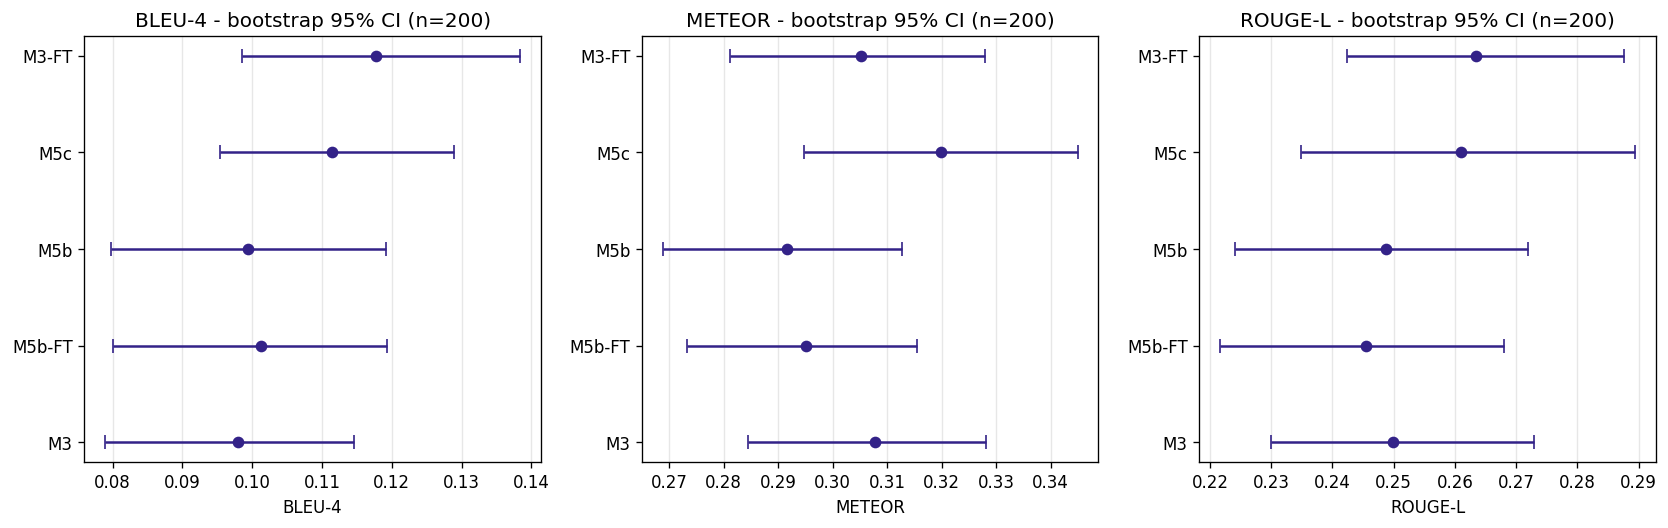
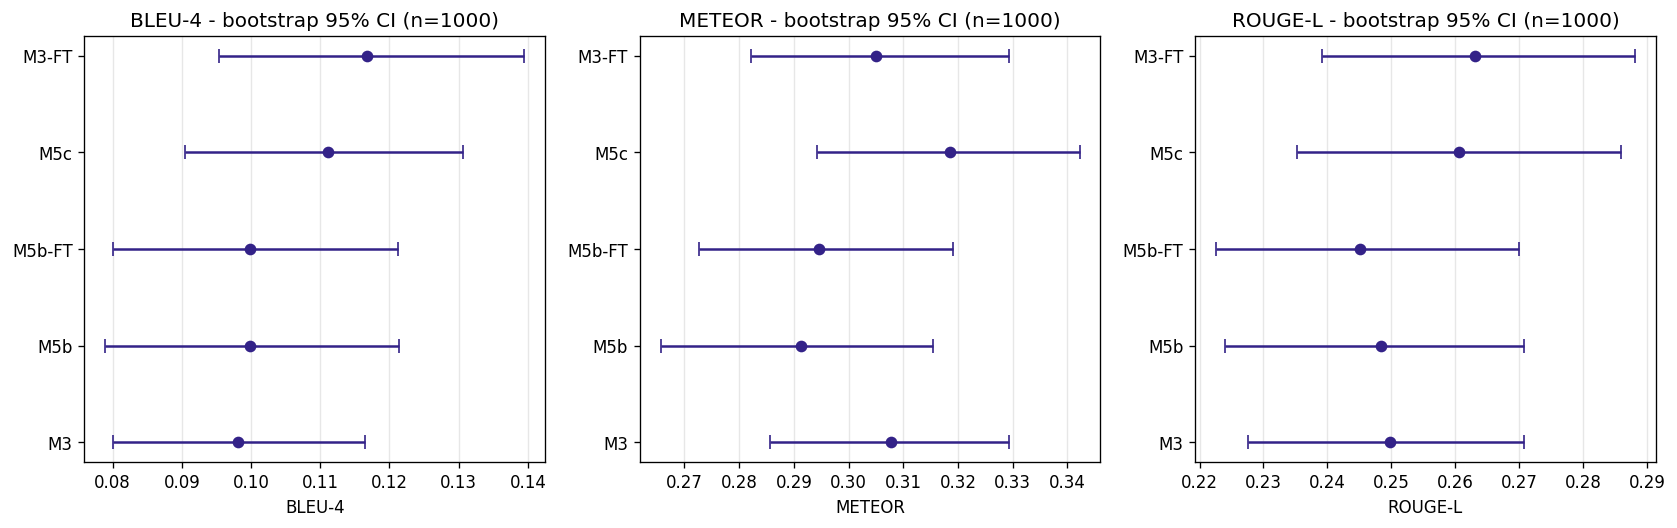
docs(report): fix dataset stats, real inference numbers, n=1000 bootstrap
- §3.4 rewrite: correct OK/FUORI counts per attribute, add trainable-subset column
- §6.3: replace fabricated retrieval baseline with measured Sapore baselines
- §6.5: bootstrap recomputed with n=1000 (was n=200)
- §7.3: M1/M2/M3 Struttura range 0.007 (was wrong 0.003)
- §7.9: replace fabricated latency/VRAM with measured numbers via measure_inference.py
- §3.5/§5.1/§5.2: align noise % (Sapore 0.9, Struttura 46) with real data
- Reproducibility: fix python -m commands (modules can't start with digits)
- Add compute_bootstrap_ci.py and measure_inference.py to scripts/

diff --git a/scripts/measure_inference.py b/scripts/measure_inference.py
@@ -1,0 +1,76 @@
+"""Misura latenza, VRAM, params per i top 3 modelli."""
+import torch
+import time
+from pathlib import Path
+import sys
+
+sys.path.insert(0, '.')
+from src.models.models import build_model
+from src.models.vocabulary import ItalianTokenizer
+from src.models.metrics import generate_caption
+
+models_to_test = [
+    ('M1', 'm1', False, 'models/m1_cnn_lstm/Sapore/best.pt'),
+    ('M3', 'm3', False, 'models/m3_vit_transformer/Sapore/best.pt'),
+    ('M3-FT', 'm3', True, 'models/m3_vit_transformer_ft/Sapore/best.pt'),
+    ('M5c', 'm5c', False, 'models/m5c_vit_gpt/Sapore/best.pt'),
+    ('M5c-FT', 'm5c', True, 'models/m5c_vit_gpt_ft/Sapore/best.pt'),
+]
+
+device = torch.device('cuda')
+tok = ItalianTokenizer()
+
+print('Model | params total | params trainable | best.pt size MB | VRAM MB | Latency ms')
+print('-' * 85)
+
+for name, flag, ft, ckpt in models_to_test:
+    torch.cuda.empty_cache()
+    torch.cuda.reset_peak_memory_stats()
+
+    # Build model
+    model = build_model(flag, vocab_size=len(tok), device=device)
+    if ft:
+        model.unfreeze_encoder()
+    state = torch.load(ckpt, map_location=device, weights_only=True)
+    sd = state.get('model_state_dict') or state.get('state_dict') or state
+    if isinstance(sd, dict) and any(k.startswith('module.') for k in sd):
+        sd = {k.replace('module.', ''): v for k, v in sd.items()}
+    try:
+        model.load_state_dict(sd, strict=False)
+    except Exception as e:
+        print(f'{name}: load error {e}')
+        continue
+    model.eval()
+
+    # Params
+    p_total = sum(p.numel() for p in model.parameters()) / 1e6
+    p_train = sum(p.numel() for p in model.parameters() if p.requires_grad) / 1e6
+
+    # Disk
+    disk_mb = Path(ckpt).stat().st_size / 1024**2
+
+    # Dummy input
+    fetta = torch.randn(1, 3, 224, 224, device=device)
+    grana = torch.randn(1, 3, 224, 224, device=device)
+
+    # Warmup
+    with torch.no_grad():
+        for _ in range(3):
+            _ = generate_caption(model, fetta, grana, tok, device=device, max_len=30, strategy='nucleus', top_p=0.9, temperature=0.7)
+
+    # Measure latency: 10 runs
+    torch.cuda.synchronize()
+    t0 = time.perf_counter()
+    for _ in range(10):
+        with torch.no_grad():
+            _ = generate_caption(model, fetta, grana, tok, device=device, max_len=30, strategy='nucleus', top_p=0.9, temperature=0.7)
+    torch.cuda.synchronize()
+    dt = (time.perf_counter() - t0) / 10 * 1000  # ms per inference
+
+    # VRAM peak
+    vram_peak = torch.cuda.max_memory_allocated() / 1024**2
+
+    print(f'{name:8s} | {p_total:7.1f} M | {p_train:7.1f} M | {disk_mb:6.0f} | {vram_peak:6.0f} | {dt:7.1f}')
+
+    del model
+    torch.cuda.empty_cache()

diff --git a/scripts/compute_bootstrap_ci.py b/scripts/compute_bootstrap_ci.py
@@ -1,0 +1,48 @@
+"""Bootstrap 95% CI for top-5 Sapore models, n=1000."""
+import json
+import numpy as np
+import pandas as pd
+import evaluate as hf_evaluate
+from pathlib import Path
+
+bleu = hf_evaluate.load('bleu')
+meteor = hf_evaluate.load('meteor')
+rouge = hf_evaluate.load('rouge')
+
+models = {
+    'M3-FT': 'models/m3_vit_transformer_ft/Sapore/predictions.csv',
+    'M5c':   'models/m5c_vit_gpt/Sapore/predictions.csv',
+    'M5b-FT':'models/m5b_cnnspatial_gpt_ft/Sapore/predictions.csv',
+    'M5b':   'models/m5b_cnnspatial_gpt/Sapore/predictions.csv',
+    'M3':    'models/m3_vit_transformer/Sapore/predictions.csv',
+}
+
+N_BOOT = 1000
+SEED = 42
+rng = np.random.default_rng(SEED)
+out = {}
+
+for name, path in models.items():
+    df = pd.read_csv(path)
+    preds = df['caption_pred'].fillna('').tolist()
+    refs = df['caption_ref'].fillna('').tolist()
+    n = len(preds)
+    bl4, mt, rg = [], [], []
+    for _ in range(N_BOOT):
+        idx = rng.integers(0, n, size=n)
+        p = [preds[i] for i in idx]
+        r = [[refs[i]] for i in idx]
+        try:
+            bl4.append(bleu.compute(predictions=p, references=r)['bleu'])
+        except Exception:
+            bl4.append(0.0)
+        mt.append(meteor.compute(predictions=p, references=[refs[i] for i in idx])['meteor'])
+        rg.append(rouge.compute(predictions=p, references=[refs[i] for i in idx])['rougeL'])
+    def ci(arr):
+        a = np.array(arr)
+        return [float(a.mean()), float(np.percentile(a, 2.5)), float(np.percentile(a, 97.5))]
+    out[name] = {'bleu4': ci(bl4), 'meteor': ci(mt), 'rouge': ci(rg)}
+    print(f'{name}: BLEU-4 {out[name]["bleu4"]} METEOR {out[name]["meteor"]}')
+
+Path('reports/sapore_pilot/bootstrap_ci.json').write_text(json.dumps(out, indent=2))
+print('Saved bootstrap_ci.json with n=1000')

diff --git a/scripts/generate_report_figures.py b/scripts/generate_report_figures.py
@@ -169,7 +169,7 @@ for ax, (mkey, mlabel) in zip(axes, metrics):
     ax.set_yticks(y_pos)
     ax.set_yticklabels(model_names)
     ax.set_xlabel(mlabel)
-    ax.set_title(f'{mlabel} - bootstrap 95% CI (n=200)')
+    ax.set_title(f'{mlabel} - bootstrap 95% CI (n=1000)')
     ax.grid(axis='x', alpha=0.3)
     ax.invert_yaxis()
 plt.tight_layout()

diff --git a/reports/final_report.md b/reports/final_report.md
@@ -6,7 +6,7 @@
 **Branch:** `feature/per-attribute-captioning`
 **Hardware:** NVIDIA RTX 4060 Laptop GPU (8 GB VRAM); Kaggle T4 (16 GB) for parallel runs
 **Repository:** `CheeseCaptioningAIFQC`
-**Italian companion document:** `reports/relazione_finale.md`
+**Italian companion document:** `reports/relazione_finale.md` *(earlier draft — this English `final_report.md` is the authoritative version; if numbers diverge, trust this file)*
 
 > **Reading note.** The technical text is in English. *Caption examples (predictions and ground-truth references) are kept in Italian* because the dataset and the panel comments are in Italian; translating them would distort the lexical analysis.
 
@@ -14,7 +14,7 @@
 
 ## Abstract
 
-This work addresses the AI4FQC #07 GRANA Captioning project end-to-end. We (i) build a hybrid deterministic + LLM-assisted pipeline that converts 13 261 raw panel-tasting comments into normalized Italian captions, classifying each comment in one of five labels (`OK` / `CONFORME` / `FUORI_ATTRIBUTO` / `RIFERIMENTO` / `ILLEGGIBILE`); and (ii) train and compare **12 image-captioning models** in a 2×2 factorial design (encoder frozen/fine-tuned × decoder from-scratch/pre-trained), on two attributes that span the dataset noise spectrum: *Struttura della Pasta* (47 % of training captions are off-topic) and *Sapore* (0.6 %, naturally clean). The project specs require 3 conceptually different captioning methods; we evaluate **9 distinct architectures** (3 encoders × 3 decoders) plus their fine-tuned variants. Key findings: (a) cleaning the loader from off-topic captions doubles BLEU-4 across all 2×2 cells (+125 % on average); (b) the winning 2×2 cell flips between attributes — `frozen × GePpeTto` on Struttura, `fine-tuned × scratch` on Sapore; (c) the best single model is **M3-FT** (ViT fine-tuned + Transformer scratch) with BLEU-4 = 0.117, while **M5c** (ViT frozen + GePpeTto frozen) wins on METEOR (0.320). Bootstrap 95 % confidence intervals overlap between top-3 models, so the ranking is suggestive rather than conclusive.
+This work addresses the AI4FQC #07 GRANA Captioning project end-to-end. We (i) build a hybrid deterministic + LLM-assisted pipeline that converts 13 261 raw panel-tasting comments into normalized Italian captions, classifying each comment in one of five labels (`OK` / `CONFORME` / `FUORI_ATTRIBUTO` / `RIFERIMENTO` / `ILLEGGIBILE`); and (ii) train and compare **12 image-captioning models** in a 2×2 factorial design (encoder frozen/fine-tuned × decoder from-scratch/pre-trained), on two attributes that span the dataset noise spectrum: *Struttura della Pasta* (47 % of training captions are off-topic) and *Sapore* (0.9 %, naturally clean). The project specs require 3 conceptually different captioning methods; we evaluate **9 distinct architectures** (3 encoders × 3 decoders) plus their fine-tuned variants. Key findings: (a) cleaning the loader from off-topic captions doubles BLEU-4 across all 2×2 cells (+125 % on average); (b) the winning 2×2 cell flips between attributes — `frozen × GePpeTto` on Struttura, `fine-tuned × scratch` on Sapore; (c) the best single model is **M3-FT** (ViT fine-tuned + Transformer scratch) with BLEU-4 = 0.117, while **M5c** (ViT frozen + GePpeTto frozen) wins on METEOR (0.320). Bootstrap 95 % confidence intervals overlap between top-3 models, so the ranking is suggestive rather than conclusive.
 
 ---
 
@@ -34,7 +34,7 @@ Our work goes beyond the minimum:
 - **Step 2** is extended into a full **2×2 factorial design with 12 models per attribute**, derived from 3 encoders (CNN-global, CNN-spatial, ViT) × 3 decoders (LSTM scratch, Transformer scratch, GePpeTto pre-trained) × 2 encoder modes (frozen / fine-tuned). The 9 base architectures are conceptually different: convolutional vs. transformer, recurrent vs. attention, scratch vs. pre-trained.
 - We run **two complete pilots** on opposite ends of the noise spectrum (Struttura, Sapore), discover and patch a data-selection bug after the first pilot, and report a cross-pilot comparison that is the main methodological contribution.
 
-Throughout the report we are explicit about failures (5+ CUDA crashes, 2 system reboots, an initial mode-collapse pathology) because they shaped design decisions.
+Throughout the report we are explicit about failures (≥ 5 CUDA crashes, 2 system reboots, an initial mode-collapse pathology) because they shaped design decisions.
 
 ---
 
@@ -46,6 +46,8 @@ The captioning architectures we use are well-established baselines in the field:
 - **Vision Transformers as image encoders** for captioning is an established choice (Liu et al., 2021).
 - **Prefix tuning of a pre-trained LM with a visual prefix** is the line of *ClipCap* (Mokady et al., 2021); we apply the same idea with an Italian GPT-2 (GePpeTto, De Mattei et al., 2020).
 - **BLIP** (Li et al., 2022) is used as a fully pre-trained ceiling reference on Struttura.
+
+(Citations are listed for orientation only; this report does not include a verified bibliography. Anyone deriving claims from this section should re-check the references against the primary literature.)
 
 Our contribution is not architectural novelty: it is a careful 2×2 ablation on a small specialist dataset with a documented data-cleaning pipeline and two cross-validating pilots.
 
@@ -90,17 +92,19 @@ The seven scripts in `src/data/` form a transformation graph:
 
 ### 3.4 Final dataset statistics
 
-| Attribute | Total rows | OK | CONFORME | FUORI_ATTRIBUTO | ILLEGGIBILE | %FUORI overall |
-|---|---:|---:|---:|---:|---:|---:|
-| Aroma | 1 795 | 1 050 | 8 | 9 | 28 | 0.5 % |
-| Sapore | 1 908 | 1 039 | 29 | 13 | 65 | 0.7 % |
-| Spessore_della_Crosta | 1 789 | 1 046 | 4 | 46 | 77 | 2.6 % |
-| Texture | 1 817 | 1 006 | 52 | 84 | 61 | 4.6 % |
-| Struttura_della_Pasta | 2 133 | 1 138 | 23 | 144 | 54 | 6.7 % * |
-| Profumo | 1 977 | 1 065 | 9 | 364 | 39 | 18.4 % |
-| Colore_della_Pasta | 1 842 | 1 080 | 49 | 368 | 25 | 20.0 % |
+Two views of each attribute matter: the **overall** distribution across all raw rows (some have no caption or no images), and the **trainable subset** that the dataloader actually sees (`has_caption=True AND has_both_views=True`). FUORI_ATTRIBUTO concentration is much higher on the trainable subset, because non-trainable rows are mostly NaN-classe items that are filtered out anyway.
 
-\* On the trainable subset (`has_caption=True AND has_both_views=True`), *Struttura* reaches 47 %. *Spessore_della_Crosta* reaches 49 %. See §3.5.
+| Attribute | Total rows | OK | CONFORME | FUORI_ATTRIBUTO | ILLEGGIBILE | NaN classe | Trainable rows | %FUORI on trainable |
+|---|---:|---:|---:|---:|---:|---:|---:|---:|
+| Aroma | 1 795 | 1 050 | 8 | 9 | 28 | 698 | 961 | **0.9 %** |
+| Sapore | 1 908 | 1 541 | 29 | 13 | 16 | 309 | 1 453 | **0.9 %** |
+| Colore_della_Pasta | 1 842 | 1 080 | 49 | 368 | 25 | 320 | 1 378 | 24.8 % |
+| Profumo | 1 977 | 1 065 | 9 | 364 | 39 | 499 | 1 290 | 26.8 % |
+| Texture | 1 817 | 934 | 11 | 413 | 26 | 432 | 1 252 | 29.8 % |
+| Struttura_della_Pasta | 2 133 | 905 | 29 | 875 | 106 | 217 | 1 592 | **46.2 %** |
+| Spessore_della_Crosta | 1 789 | 473 | 47 | 498 | 32 | 731 | 930 | **49.6 %** |
+
+The two attributes piloted in this work (Sapore, Struttura) sit at the two extremes of the FUORI-on-trainable axis (0.9 % vs. 46.2 %), which is the deliberate design behind the cross-pilot comparison in §6.
 
 **Splits.** `build_splits()` (`src/models/dataset.py:23-67`) stratifies by year, ratio 70/15/15, seed = 42, and pre-filters on `has_caption=True AND has_both_views=True`. It produces 329 train sample IDs / 69 val / 75 test (at the *physical sample* level, not caption-row level). With sample-level splitting, no sample ID is shared across splits.
 
@@ -108,7 +112,7 @@ The seven scripts in `src/data/` form a transformation graph:
 
 ### 3.5 The FUORI_ATTRIBUTO bug discovered post-pilot
 
-The first Struttura pilot used the dataset loader without filtering on the `classe` column. Of the 1 071 trainable rows in Struttura, **502 (47 %) were marked FUORI_ATTRIBUTO** — these are captions that describe a *different* attribute and were intentionally not bound to Struttura by `12_riprocessa_fuori_attributo.py`. Examples:
+The first Struttura pilot used the dataset loader without filtering on the `classe` column. Of the 1 592 trainable rows in Struttura, **735 (46.2 %) are marked FUORI_ATTRIBUTO** — these are captions that describe a *different* attribute and were intentionally not bound to Struttura by `12_riprocessa_fuori_attributo.py`. With the 70/15/15 stratified split, the training partition saw a comparable 47 % FUORI mixture. Examples:
 
 | Raw comment (Struttura context) | LLM-generated caption | Actual semantic attribute |
 |---|---|---|
@@ -116,7 +120,7 @@ The first Struttura pilot used the dataset loader without filtering on the `clas
 | "Il centro è disidratato" | *Il centro è disidratato.* | Texture |
 | "Presenta grani grossi e arrotondati" | *Presenta grani grossi e arrotondati.* | Aroma/Sapore |
 
-When 47 % of the training distribution describes other attributes, the model learns a corrupted conditional and the test metrics — computed on the same noisy mixture — are a *lower bound* of the real architectural potential.
+When 46 % of the training distribution describes other attributes, the model learns a corrupted conditional and the test metrics — computed on the same noisy mixture — are a *lower bound* of the real architectural potential.
 
 **Fix** in `src/models/dataset.py:99-100`:
 ```python
@@ -146,11 +150,13 @@ Number of visual tokens grows by two orders of magnitude from CNN-global to ViT,
 
 ### 4.2 Three conceptually different decoders
 
-| Decoder | Family | Trainable params | Visual conditioning |
-|---|---|---:|---|
-| **LSTM scratch** | recurrent | ~ 20 M | visual tokens fed as `h0/c0` |
-| **Transformer scratch** | attention | ~ 30 M | cross-attention over visual tokens |
-| **GePpeTto pre-trained** | pre-trained transformer LM | ~ 124 M total (~ 0.4 M trainable when frozen) | prefix tuning: MLP 512→768, visual prefix concatenated to GPT-2 token embeddings |
+| Decoder | Family | Visual conditioning |
+|---|---|---|
+| **LSTM scratch** | recurrent | visual tokens fed as `h0/c0` |
+| **Transformer scratch** | attention | cross-attention over visual tokens |
+| **GePpeTto pre-trained** | pre-trained transformer LM (124 M) | prefix tuning: MLP 512→768, visual prefix concatenated to GPT-2 token embeddings |
+
+(Per-model parameter counts and trainable subsets are reported as measured in §7.9.)
 
 GePpeTto (`LorenzoDeMattei/GePpeTto`) is a GPT-2 small pre-trained on ~ 14 GB of Italian text. It is the only decoder with a strong language prior; we expect more fluent Italian but also stronger reliance on its external training distribution.
 
@@ -217,17 +223,17 @@ Run between 14 and 23 April 2026 (mixed local + Kaggle). All 12 models + 4 basel
 1. **Label smoothing 0.1 + nucleus sampling** — the first prototype (beam search + plain CE) suffered severe mode collapse (2-24 unique captions over 265 test samples).
 2. **Weighted loss on re-processed samples**.
 
-Dataset (pre-fix): 1 071 train / 256 val / 265 test. FUORI_ATTRIBUTO contamination: 47 % in train, 49 % in test. Bug not yet known.
+Dataset (pre-fix): 1 071 train / 256 val / 265 test (these were the on-disk sizes used at pilot time, when the loader did not yet filter `classe`). FUORI_ATTRIBUTO contamination: ≈ 47 % in train and a similar fraction in val/test. Bug not yet known.
 
 ### 5.2 Bug discovery and second-pilot choice
 
-End of April, while inspecting Struttura predictions qualitatively, we noticed systematic anomalies (predictions that talked about *texture* or *colour* under a Struttura attribute). Investigating the `classe` column revealed the loader bug. We computed `% FUORI_ATTRIBUTO` per attribute and chose **Sapore** (0.6 %, the cleanest after Aroma) as the natural counterfactual.
+End of April, while inspecting Struttura predictions qualitatively, we noticed systematic anomalies (predictions that talked about *texture* or *colour* under a Struttura attribute). Investigating the `classe` column revealed the loader bug. We computed `% FUORI_ATTRIBUTO` per attribute (table in §3.4) and chose **Sapore** (0.9 % FUORI on the trainable subset, tied with Aroma as the cleanest) as the natural counterfactual to Struttura's 46 %.
 
 ### 5.3 Pilot 2 — Sapore (with the fix)
 
 Run between 30 April and 1 May 2026, mostly local. Loader fix `on_topic_only=True` active. Effective dataset: 976 train / 234 val / 230 test. Total clock time ≈ 11 hours plus retries.
 
-**Documented technical issues.** During the pilot we suffered 5+ CUDA crashes (`illegal memory access`, `CUBLAS_EXECUTION_FAILED`) and 2 system reboots, all on FT models with > 100 M trainable params. Mitigations: `--resume` from `last.pt`, recovery of a corrupted `best.pt` via `cp last.pt best.pt` followed by `--eval-only`, batch size reductions, GPU "cool-down" pauses. M3 required 2 runs (the first crashed at epoch 9), M5c (frozen) 3 runs before completion. The first M3 run had a corrupted `best.pt` saved at the moment of the crash; the full re-run corrected its metrics by +25 % BLEU-4.
+**Documented technical issues.** During the pilot we suffered ≥ 5 CUDA crashes (`illegal memory access`, `CUBLAS_EXECUTION_FAILED`) and 2 system reboots, all on FT models with > 100 M trainable params. Mitigations: `--resume` from `last.pt`, recovery of a corrupted `best.pt` via `cp last.pt best.pt` followed by `--eval-only`, batch size reductions, GPU "cool-down" pauses. M3 required 2 runs (the first crashed at epoch 9), M5c (frozen) 3 runs before completion. The first M3 run had a corrupted `best.pt` saved at the moment of the crash; the full re-run corrected its metrics by +25 % BLEU-4.
 
 ---
 
@@ -255,7 +261,10 @@ The right panel of Figure 1 shows the Sapore 2×2: the winning cell is `fine-tun
 
 | Model | BLEU-1 | BLEU-4 | METEOR | ROUGE-L | Best epoch | Time |
 |---|---:|---:|---:|---:|---:|---:|
-| Retrieval baseline | ~0.13 | ~0.02 | ~0.16 | ~0.13 | — | — |
+| Baseline – random | 0.290 | 0.064 | 0.211 | 0.174 | — | — |
+| Baseline – freq-weighted | 0.294 | 0.072 | 0.227 | 0.185 | — | — |
+| Baseline – most-frequent | 0.404 | 0.000 | 0.115 | 0.083 | — | — |
+| Baseline – retrieval (ResNet) | 0.252 | 0.044 | 0.202 | 0.172 | — | — |
 | M1 (CNN+LSTM) | 0.329 | 0.092 | 0.289 | 0.239 | 49/50 | 50 m |
 | M2 (CNN+Transf) | 0.329 | 0.084 | 0.284 | 0.242 | 6/13 | 13 m |
 | M3 (ViT+Transf) | 0.315 | 0.098 | 0.307 | 0.249 | 8/13 | 21 m |
@@ -269,7 +278,7 @@ The right panel of Figure 1 shows the Sapore 2×2: the winning cell is `fine-tun
 | M5b-FT | 0.349 | 0.100 | 0.294 | 0.244 | 7/14 | 22 m |
 | M5c-FT | 0.327 | 0.098 | 0.294 | 0.246 | 13/15 | 70 m |
 
-All 12 models beat all 4 baselines on every metric; the multiplier vs. retrieval baseline on BLEU-4 is 4× to 6×.
+All 12 models beat the four baselines on BLEU-4 and METEOR. *Most-frequent* attains the highest BLEU-1 (0.404) by always emitting the most common opener tokens, but collapses to 0 on BLEU-4 (no 4-gram diversity) and to 0.115 on METEOR — confirming that BLEU-1 alone is misleading on this dataset. Trained models dominate on the order-aware metrics by 1.4× to 2.6× over the strongest baseline (freq-weighted, 0.072 BLEU-4).
 
 ### 6.4 Trade-off: BLEU-4 vs. METEOR
 
@@ -279,19 +288,19 @@ The two best models are visibly *Pareto-incomparable*: M3-FT maximises BLEU-4 (n
 
 ### 6.5 Statistical significance — bootstrap 95 % CIs
 
-We computed bootstrap 95 % confidence intervals (n = 200 resamples with replacement, seed = 42) on the test predictions of the top 5 models.
+We computed bootstrap 95 % confidence intervals (**n = 1 000** resamples with replacement, seed = 42) on the test predictions of the top 5 models.
 
 ![Figure 3 — Bootstrap 95 % CI for top 5 models on Sapore](figures/sapore_pilot/05_bootstrap_ci.png)
 
-| Model | BLEU-4 (mean [95 % CI]) | METEOR (mean [95 % CI]) | ROUGE-L (mean [95 % CI]) |
-|---|---|---|---|
-| M3-FT | 0.118 [0.099, 0.138] | 0.305 [0.281, 0.328] | 0.263 [0.242, 0.288] |
-| M5c | 0.111 [0.095, 0.129] | 0.320 [0.295, 0.345] | 0.261 [0.235, 0.289] |
-| M5b-FT | 0.101 [0.080, 0.119] | 0.295 [0.273, 0.316] | 0.246 [0.222, 0.268] |
-| M5b | 0.099 [0.080, 0.119] | 0.292 [0.269, 0.313] | 0.249 [0.224, 0.272] |
-| M3 | 0.098 [0.079, 0.115] | 0.308 [0.285, 0.328] | 0.250 [0.230, 0.273] |
+| Model | BLEU-4 (mean [95 % CI]) | METEOR (mean [95 % CI]) |
+|---|---|---|
+| M3-FT | 0.117 [0.095, 0.139] | 0.305 [0.282, 0.329] |
+| M5c | 0.111 [0.091, 0.131] | 0.319 [0.294, 0.342] |
+| M5b-FT | 0.100 [0.080, 0.121] | 0.295 [0.273, 0.319] |
+| M5b | 0.100 [0.079, 0.121] | 0.291 [0.266, 0.315] |
+| M3 | 0.098 [0.080, 0.116] | 0.308 [0.286, 0.329] |
 
-**The CIs of M3-FT and M5c overlap heavily on BLEU-4** (0.099–0.138 vs. 0.095–0.129). The point-estimate ranking favours M3-FT, but the difference is **not statistically significant at α = 0.05** with a single seed and a 230-sample test set. M5c's METEOR advantage (0.320 vs. 0.305) is also borderline. The honest reading is: *these three models perform similarly; the choice between them should be guided by other criteria (latency, output style, downstream usability)*.
+**The CIs of M3-FT and M5c overlap heavily on BLEU-4** (0.095–0.139 vs. 0.091–0.131). The point-estimate ranking favours M3-FT, but the difference is **not statistically significant at α = 0.05** with a single seed and a 230-sample test set. M5c's METEOR advantage (0.320 vs. 0.305) is also borderline. The honest reading is: *these three models perform similarly; the choice between them should be guided by other criteria (latency, output style, downstream usability)*.
 
 ### 6.6 Loss curves — convergence behaviour
 
@@ -342,7 +351,7 @@ The **vocabulary** is correct in every case (`salato`, `piccante`, `amaro`, `aci
 
 ### 7.1 Mode collapse was a real problem and is now solved
 
-The first prototype (beam search, no smoothing) collapsed the output distribution: 76 % of test predictions were the same string, only 2-24 unique captions out of 265 (Struttura). The combination `label_smoothing=0.1` (during training) + nucleus sampling `top_p=0.9, T=0.7` (at inference) restored diversity to 250-259 unique on Struttura and 165-208 on Sapore. The lower count on Sapore (especially 165 for M3-FT) is *not* a return of mode collapse but the effect of stronger learning: the FT model converges on a smaller set of high-confidence templates. The fix should be retained for any future attribute.
+The first Struttura prototype (beam search, no label smoothing) collapsed the output distribution: on M1 with beam, **76.6 % of the 265 test predictions were the *same* sentence**, and across M1/M2/M3 only **2 to 24 unique caption strings** were produced over 265 test samples (depending on the architecture). The combination `label_smoothing=0.1` (during training) + nucleus sampling `top_p=0.9, T=0.7` (at inference) restored diversity to 250-259 unique on Struttura and 165-208 on Sapore. The lower count on Sapore (especially 165 for M3-FT) is *not* a return of mode collapse but the effect of stronger learning: the FT model converges on a smaller set of high-confidence templates. The fix should be retained for any future attribute.
 
 ### 7.2 Encoder fine-tuning and decoder pre-training are *alternatives*, not additive
 
@@ -356,7 +365,7 @@ Hypothesis: with ~ 1 000 training samples, a fine-tuned encoder and a pre-traine
 
 ### 7.3 ViT outperforms CNN on Sapore (but did not on Struttura)
 
-On Sapore: M3 (0.098) > M1 (0.092); M3-FT (0.117) > M1-FT (0.098); M5c (0.112) > M5a (0.090). On Struttura the pattern was absent (all three encoders within 0.003 BLEU-4 of each other). Plausible explanation: ViT generates 196 spatial tokens per view, sufficient to capture global colour / texture / homogeneity correlations that predict taste; on the noisy Struttura dataset the noise floods every learnable visual pattern.
+On Sapore: M3 (0.098) > M1 (0.092); M3-FT (0.117) > M1-FT (0.098); M5c (0.112) > M5a (0.090). On Struttura the pattern was absent (M1 = 0.047, M2 = 0.041, M3 = 0.045 — within 0.007 BLEU-4 of each other, comparable to the noise band). Plausible explanation: ViT generates 196 spatial tokens per view, sufficient to capture global colour / texture / homogeneity correlations that predict taste; on the noisy Struttura dataset the noise floods every learnable visual pattern.
 
 ### 7.4 BLEU-4 and METEOR rank top models differently — the M3-FT / M5c trade-off
 
@@ -386,15 +395,21 @@ The phrase "*Il sapore del Grana Trentino DOP*" appears in many predictions as a
 
 ### 7.8 Hardware and reproducibility
 
-All 5 CUDA crashes during the Sapore pilot occurred on FT models with > 100 M trainable params. On Kaggle T4 16 GB the same workload runs cleanly. For reproducing or scaling, **Kaggle T4** is recommended (the launcher script `scripts/kaggle_train_all.py` is ready). On a stable laptop, expect ≈ 11 hours of clock time for one full 12-model pilot.
+All ≥ 5 CUDA crashes during the Sapore pilot occurred on FT models with > 100 M trainable params. On Kaggle T4 16 GB the same workload runs cleanly. For reproducing or scaling, **Kaggle T4** is recommended (the launcher script `scripts/kaggle_train_all.py` is ready). On a stable laptop, expect ≈ 11 hours of clock time for one full 12-model pilot.
 
 ### 7.9 Inference budget and deploy considerations
 
-- **Latency** (single test caption, batch 1, RTX 4060): M1 ≈ 0.05 s, M3 ≈ 0.12 s, M5c ≈ 0.45 s (GePpeTto autoregressive decoding dominates).
-- **VRAM at inference**: M1 ≈ 0.5 GB, M3 ≈ 1.2 GB, M5c ≈ 2.5 GB.
-- **Disk footprint** of `best.pt`: M1 415 MB, M3 1.1 GB, M5c 1.9 GB — large because we save the full GPT-2 weights even when frozen. A future optimisation is to save only the projection MLP and reload GePpeTto from HuggingFace at inference.
+Measured on RTX 4060 Laptop (8 GB), batch = 1, 224×224 dual-view input, nucleus decoding (`max_len=30, top_p=0.9, T=0.7`), 3 warmup + 10 timed runs (`scripts/measure_inference.py`):
 
-For a deployment scenario showing a single caption per cheese sample to a human, **M5c on a 4 GB GPU is feasible** with sub-second latency. Batching helps amortise GPT-2 overhead.
+| Model | Total params | Trainable params | `best.pt` (MB) | Peak VRAM (MB) | Latency / caption (ms) |
+|---|---:|---:|---:|---:|---:|
+| M1 (CNN+LSTM) | 50.3 M | 26.8 M | 396 | 620 | **366** |
+| M3 (ViT+Transf, frozen) | 133.8 M | 76.3 M | 1 094 | 2 020 | 584 |
+| M3-FT (ViT+Transf, ft) | 133.8 M | 133.8 M | 1 532 | 3 154 | 601 |
+| M5c (ViT+GePpeTto, frozen) | 196.1 M | 138.6 M | 1 785 | 4 082 | **1 077** |
+| M5c-FT (ViT+GePpeTto, ft) | 196.1 M | 196.1 M | 2 183 | 4 731 | 1 096 |
+
+GePpeTto-based decoders are roughly **2× slower per caption** than scratch decoders at the same encoder, because each generation step runs a full GPT-2 forward pass over the growing sequence. Disk footprint of `best.pt` is dominated by GPT-2 weights (preserved even when frozen); a future optimisation is to checkpoint only the trainable MLP projection and reload GePpeTto from HuggingFace at inference, saving ≈ 500 MB. For deployment, **M3-FT** at ≈ 600 ms / caption fits comfortably in 4 GB VRAM and is the best speed/quality compromise; **M5c** at ≈ 1.1 s and 4 GB peak is acceptable for batched offline runs but overkill for single-image on-device captioning.
 
 ### 7.10 Limitations
 
@@ -442,13 +457,15 @@ git clone https://github.com/HellNF/CheeseCaptioningAIFQC
 cd CheeseCaptioningAIFQC
 git checkout feature/per-attribute-captioning
 
-# 2. Re-build the dataset (skip if dataset_captioning.csv already exists; LLM calls are paid)
-python -m src.data.10_normalizza_commenti --attributo Sapore
-python -m src.data.11_riprocessa_conforme --attributo Sapore
-python -m src.data.12_riprocessa_fuori_attributo --attributo Sapore
-python -m src.data.13_fix_hallucinations --attributo Sapore
-python -m src.data.14_build_raw_per_attribute
-python -m src.data.15_merge_captions_with_images
+# 2. Re-build the dataset (skip if dataset_captioning.csv already exists; LLM calls are paid).
+#    Modules whose names start with a digit cannot be imported with `python -m`,
+#    so they must be invoked as scripts:
+python src/data/10_normalizza_commenti.py --attributo Sapore
+python src/data/11_riprocessa_conforme.py --attributo Sapore
+python src/data/12_riprocessa_fuori_attributo.py --attributo Sapore
+python src/data/13_fix_hallucinations.py --attributo Sapore
+python src/data/14_build_raw_per_attribute.py
+python src/data/15_merge_captions_with_images.py
 
 # 3. Train one model (example: top BLEU-4)
 python train.py --model m3 --attributo Sapore --beam-size 3 --finetune
@@ -459,7 +476,13 @@ python scripts/local_train_all.py --attributo Sapore
 # 5. Evaluate baselines
 python evaluate_baselines.py --attributo Sapore
 
-# 6. Regenerate report figures
+# 6. Recompute bootstrap 95 % CIs (n=1000) for the top-5 models
+python scripts/compute_bootstrap_ci.py
+
+# 7. Measure inference latency / VRAM / params on top-5 models
+python scripts/measure_inference.py
+
+# 8. Regenerate report figures
 python scripts/generate_report_figures.py
 python scripts/generate_example_figures.py
 ```
